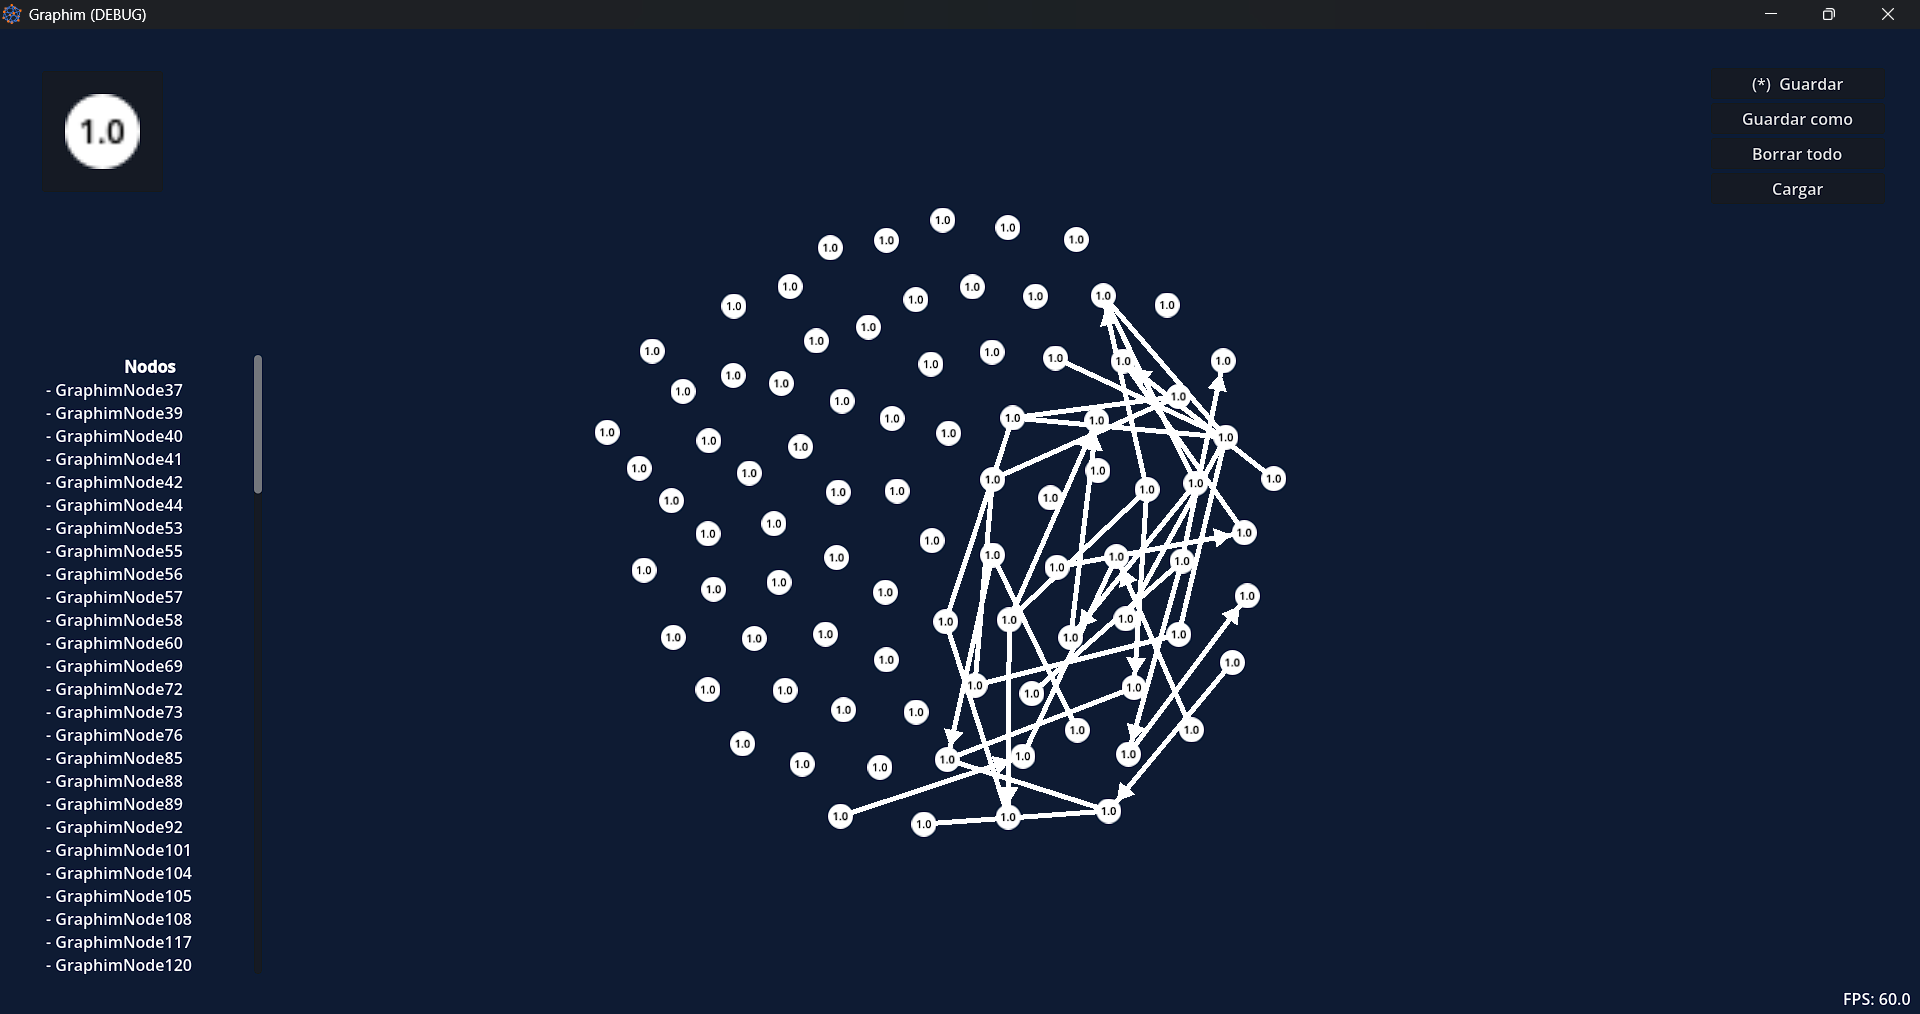
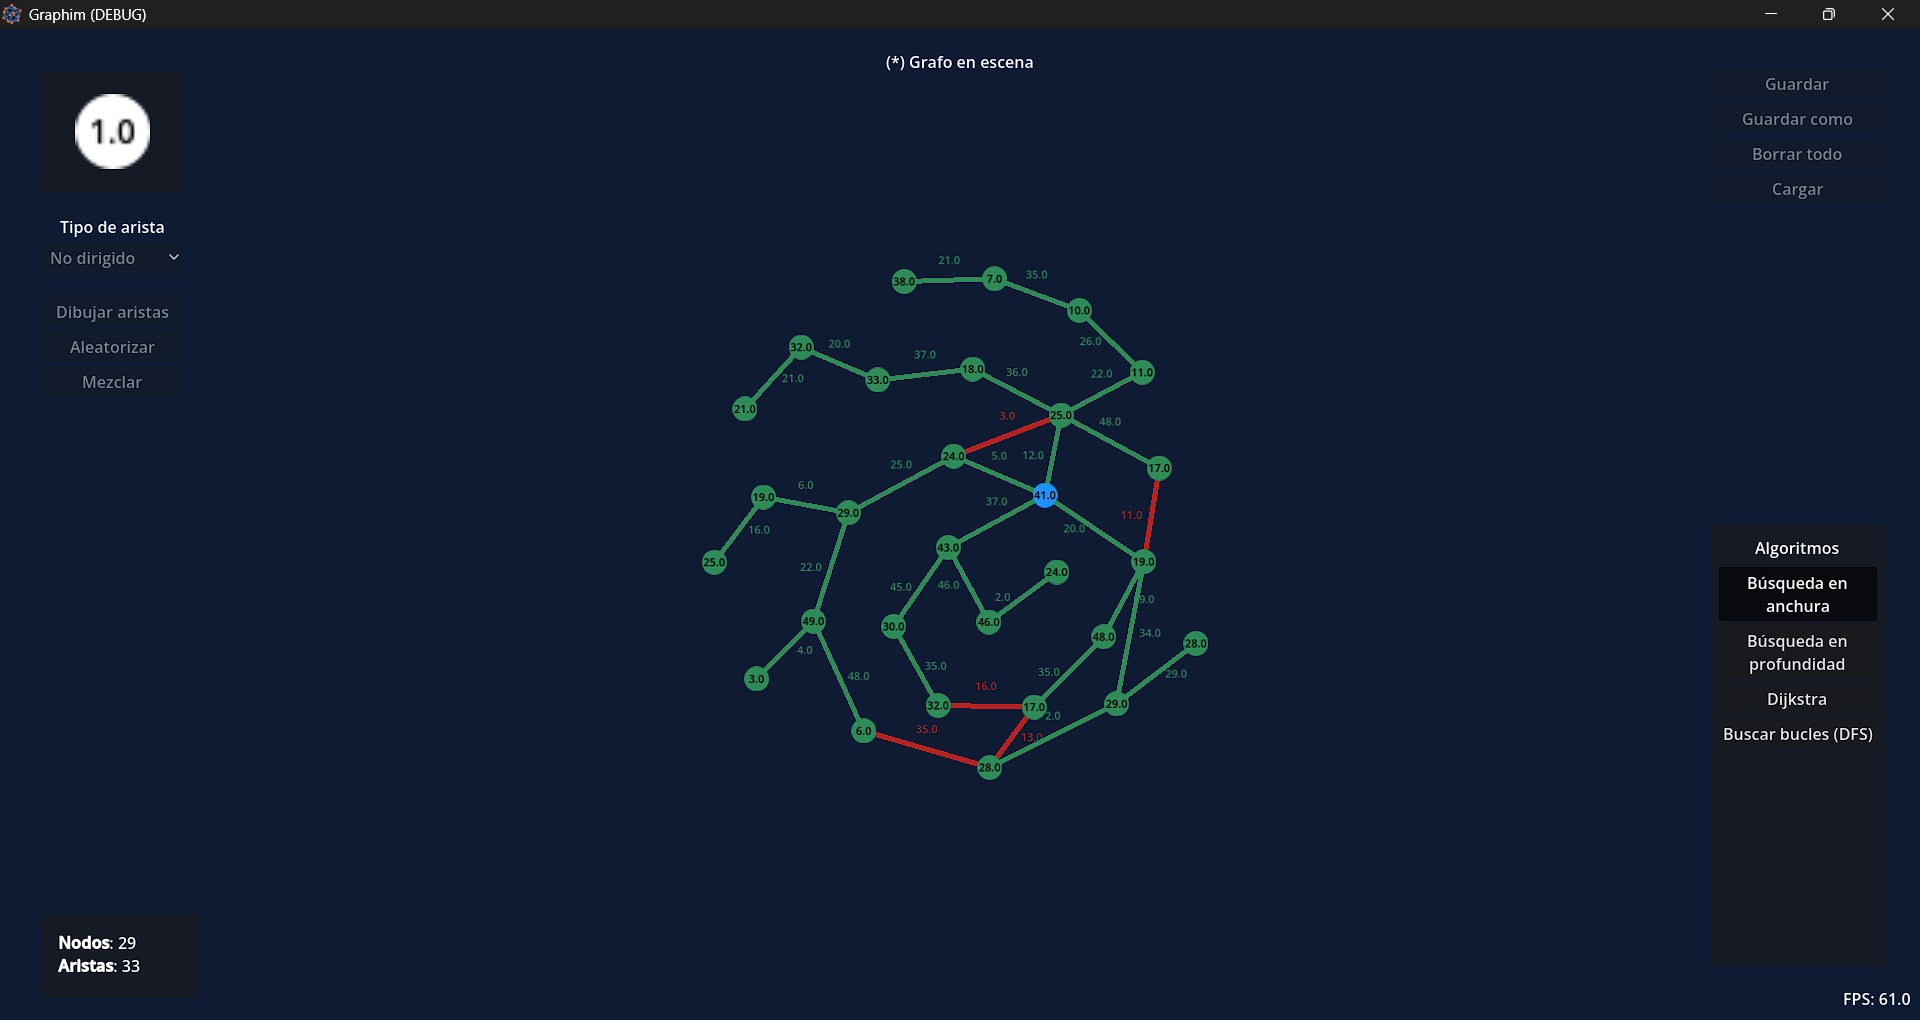
Nuevo contenido en el README

diff --git a/README.md b/README.md
@@ -10,13 +10,29 @@ Graphim es un editor visual de grafos y algoritmos hecho en Godot. Desarrollado 
 ## Integrantes del proyecto
 
 1. Hayran Andrés López
-1. Helberth Rodriguez
+2. Helberth Rodriguez
 
-## License
-MIT para todos los recursos a menos de que se indique algo diferente.
+## Instalación local
+1. Clona este repositorio
+
+    ```bash
+    git clone https://github.com/Andresit1524/graphim
+    cd graphim
+    ```
+    
+2. Instala [Godot 4.7.1](https://godotengine.org/download/archive/4.7.1-stable/) y sus plantillas de exportación. También puedes instalar estas últimas desde el editor de Godot (recomendado):
+
+    _Editor $\rightarrow$ Administrar plantillas de exportación_
+
+3. Abre el proyecto
+4. Exporta para Windows tras instalar las plantillas de exportación en
+
+    _Proyecto $\rightarrow$ Exportar $\rightarrow$ Exportar todo $\rightarrow$ Versión de publicación_
+
+## Licencia
+Licencia MIT para todos los recursos a menos de que se indique algo diferente.
 
 Efectos de sonido por Pixabay:
-
 - [freesound_community](https://pixabay.com/es/users/freesound_community-46691455/?utm_source=link-attribution&utm_medium=referral&utm_campaign=music&utm_content=43196)
 - [u_viypcpsnud](https://pixabay.com/es/users/u_viypcpsnud-51768955/?utm_source=link-attribution&utm_medium=referral&utm_campaign=music&utm_content=389258)
 - [u_r9am5j3c5j](https://pixabay.com/es/users/u_r9am5j3c5j-32593918/?utm_source=link-attribution&utm_medium=referral&utm_campaign=music&utm_content=132084)
